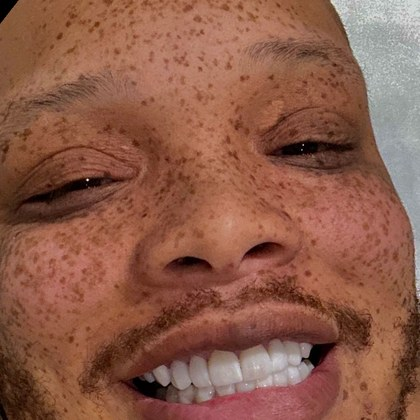
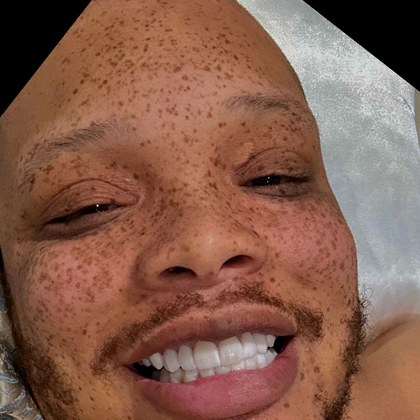
Fix face proportions, add character emblems, make mic status visible
- Antidote's photo face: full head in frame (re-crop with crown), larger
  circle, no cap drawn over it — bald is the look
- Emblem badges beside every name pill, old-sprite style: Goku 悟,
  Gohan 飯, Piccolo 魔, Dende 神, Krillin 亀, Tien 天, Hit 時,
  Yajirobe 刀, Majin M, Capsule Corp CC, Red Ribbon RR, Vegeta V,
  Hercule ★, Bardock S, Antidote A
- Mic button now reports its state in words: listening, no speech,
  blocked-in-this-viewer (works on the site version), or unsupported

Claude-Session: https://claude.ai/code/session_015XibiX1R5TEtRE3NmQSfD3

diff --git a/js/animationController.js b/js/animationController.js
@@ -207,6 +207,27 @@ var World = (function(){
   }
 
   /* ---------- fighters (vector fallback) ---------- */
+  // character emblems — the classic identifiers, like the old sprite games
+  var EMBLEMS = {
+    "GOKU":      { glyph:"悟", bg:"#E8681A" },
+    "GOHAN":     { glyph:"飯", bg:"#6B3FA0" },
+    "GOTEN":     { glyph:"悟", bg:"#3EA6D8" },
+    "VEGETA":    { glyph:"V",  bg:"#2743B5" },
+    "TRUNKS":    { glyph:"CC", bg:"#F4F0E4", fg:"#B3261E", small:true },
+    "BULMA":     { glyph:"CC", bg:"#F4F0E4", fg:"#B3261E", small:true },
+    "PICCOLO":   { glyph:"魔", bg:"#3E7D4E" },
+    "DENDE":     { glyph:"神", bg:"#4E9E5F" },
+    "KRILLIN":   { glyph:"亀", bg:"#E8681A" },
+    "TIEN":      { glyph:"天", bg:"#3E8F4E" },
+    "MAJIN BUU": { glyph:"M",  bg:"#F2A0C4", fg:"#5B3FA8" },
+    "HERCULE":   { glyph:"★",  bg:"#C9A227" },
+    "ANDROID 17":{ glyph:"RR", bg:"#B3261E", small:true },
+    "ANDROID 18":{ glyph:"RR", bg:"#B3261E", small:true },
+    "BARDOCK":   { glyph:"S",  bg:"#274A2E" },
+    "HIT":       { glyph:"時", bg:"#5A4FA8" },
+    "YAJIROBE":  { glyph:"刀", bg:"#8A5A38" },
+    "ANTIDOTE":  { glyph:"A",  bg:"#2E7D5B" }
+  };
   var HR = 6.2;
   var HAIRSPECS = {
     goku:   [[152,6],[128,9.5],[104,12.5],[86,10.5],[62,9],[38,6]],
@@ -416,16 +437,16 @@ var World = (function(){
       ctx.fillStyle = c.belt || shade(c.pants, 1.2);
       ctx.fillRect(x-5.5, y-4.5, 11, 2.4);
 
-      var hy = y - 26;
+      var hy = y - 27;
       if (a.faceImg){
-        // the Commander's real face, circle-clipped, cap drawn over it
-        var fr = HR + 2;
+        // the Commander's real face — full head, no cap covering it
+        var fr = HR + 3.4;
         ctx.save();
-        ctx.beginPath(); ctx.arc(x, hy, fr, 0, 6.29); ctx.clip();
-        ctx.drawImage(a.faceImg, x - fr, hy - fr, fr * 2, fr * 2);
+        ctx.beginPath(); ctx.arc(x, hy - 1, fr, 0, 6.29); ctx.clip();
+        ctx.drawImage(a.faceImg, x - fr, hy - 1 - fr, fr * 2, fr * 2);
         ctx.restore();
-        ctx.beginPath(); ctx.arc(x, hy, fr, 0, 6.29);
-        ctx.strokeStyle = "rgba(255,255,255,.35)"; ctx.lineWidth = 1; ctx.stroke();
+        ctx.beginPath(); ctx.arc(x, hy - 1, fr, 0, 6.29);
+        ctx.strokeStyle = (p > 0.5) ? "#FFD84A" : "#37E0A5"; ctx.lineWidth = 1.4; ctx.stroke();
       } else {
         ctx.beginPath(); ctx.arc(x, hy, HR, 0, 6.29);
         ctx.fillStyle = c.skin; ctx.fill();
@@ -448,7 +469,7 @@ var World = (function(){
       if (a.name === "TIEN"){ ctx.fillStyle="#1A1E24"; ctx.fillRect(x-0.7,hy-4.4,1.4,2.2); }
       if (a.name === "HERCULE"){ ctx.fillStyle="#3A2A1C"; ctx.fillRect(x-3.4,hy+1.6,2.8,1.5); ctx.fillRect(x+0.6,hy+1.6,2.8,1.5); }
       if (a.name === "ANDROID 17"){ ctx.fillStyle="#E8681A"; ctx.beginPath(); ctx.roundRect(x-5,hy+6.2,10,2.4,1.2); ctx.fill(); }
-      drawHair(a, x, hy, p);
+      if (!a.faceImg) drawHair(a, x, hy, p);
     }
 
     // status dot
@@ -458,7 +479,7 @@ var World = (function(){
     ctx.fillStyle = sc; ctx.fill();
     ctx.strokeStyle = "rgba(255,255,255,.5)"; ctx.lineWidth = 0.8; ctx.stroke();
 
-    // name pill
+    // name pill + character emblem badge (the old-sprite identifiers)
     var label = a.name + (a.auto ? " ⏰" : "");
     ctx.font = "700 10px 'IBM Plex Mono', monospace";
     var tw = ctx.measureText(label).width;
@@ -468,6 +489,16 @@ var World = (function(){
     ctx.fillStyle = p > 0.5 ? "#241505" : "#FFE9CE";
     ctx.textAlign = "center"; ctx.textBaseline = "middle";
     ctx.fillText(label, 0, py + 7.5);
+    var em = EMBLEMS[a.name];
+    if (em){
+      var ex = -tw/2 - 14, ey = py + 7.5;
+      ctx.beginPath(); ctx.arc(ex, ey, 8, 0, 6.29);
+      ctx.fillStyle = em.bg; ctx.fill();
+      ctx.strokeStyle = "rgba(255,255,255,.5)"; ctx.lineWidth = 1; ctx.stroke();
+      ctx.fillStyle = em.fg || "#FFF";
+      ctx.font = "700 " + (em.small ? 7 : 9) + "px 'Archivo', sans-serif";
+      ctx.fillText(em.glyph, ex, ey + 0.5);
+    }
     ctx.restore();
 
     a.sx = a.x; a.sy = a.y - 20 * FS;

diff --git a/js/ui.js b/js/ui.js
@@ -51,6 +51,8 @@ var UI = (function(){
 
     var SR = window.SpeechRecognition || window.webkitSpeechRecognition;
     var micbtn = document.getElementById("micbtn");
+    var micstatus = document.getElementById("micstatus");
+    function micSay(msg){ if (micstatus){ micstatus.hidden = false; micstatus.textContent = msg; } }
     if (SR){
       micbtn.hidden = false;
       var listening = false;
@@ -60,15 +62,35 @@ var UI = (function(){
           var rec = new SR();
           rec.lang = "en-US"; rec.interimResults = false; rec.maxAlternatives = 1;
           listening = true; micbtn.textContent = "👂";
+          micSay("Listening… say your command.");
           rec.onresult = function(e){
             cmdinput.value = e.results[0][0].transcript;
             listening = false; micbtn.textContent = "🎤";
+            if (micstatus) micstatus.hidden = true;
             document.getElementById("cmdform").requestSubmit();
           };
-          rec.onerror = function(){ listening = false; micbtn.textContent = "🎤"; micbtn.title = "Mic unavailable here — type instead"; };
+          rec.onerror = function(ev){
+            listening = false; micbtn.textContent = "🎤";
+            var why = ev && ev.error;
+            if (why === "not-allowed" || why === "service-not-allowed"){
+              micSay("Mic is blocked inside this viewer. It works on the website version (agents.html in Chrome/Safari, allow the mic when asked) — here, type your command instead.");
+            } else if (why === "no-speech"){
+              micSay("Didn't catch anything — tap 🎤 and try again.");
+            } else {
+              micSay("Mic unavailable here (" + (why || "error") + ") — type your command instead.");
+            }
+          };
           rec.onend = function(){ listening = false; if (micbtn.textContent === "👂") micbtn.textContent = "🎤"; };
           rec.start();
-        } catch(e){ listening = false; micbtn.textContent = "🎤"; }
+        } catch(e){
+          listening = false; micbtn.textContent = "🎤";
+          micSay("Mic unavailable here — type your command instead.");
+        }
+      });
+    } else {
+      micbtn.hidden = false;
+      micbtn.addEventListener("click", function(){
+        micSay("This browser doesn't support voice input — it works in Chrome and Safari on the website version. Type your command instead.");
       });
     }
 

diff --git a/agents.html b/agents.html
@@ -24,6 +24,7 @@
       <button type="button" class="cmdgo" id="soundbtn" title="Charge-up sound" aria-label="Toggle charge-up sound">🔇</button>
       <button type="submit" class="cmdgo">DISPATCH</button>
     </form>
+    <div id="micstatus" hidden style="margin-top:8px;font-size:12px;color:#E9B84F;font-family:'IBM Plex Mono',ui-monospace,monospace"></div>
     <div id="cmdresult" hidden></div>
     <div id="cmdreply" hidden></div>
   </div>
